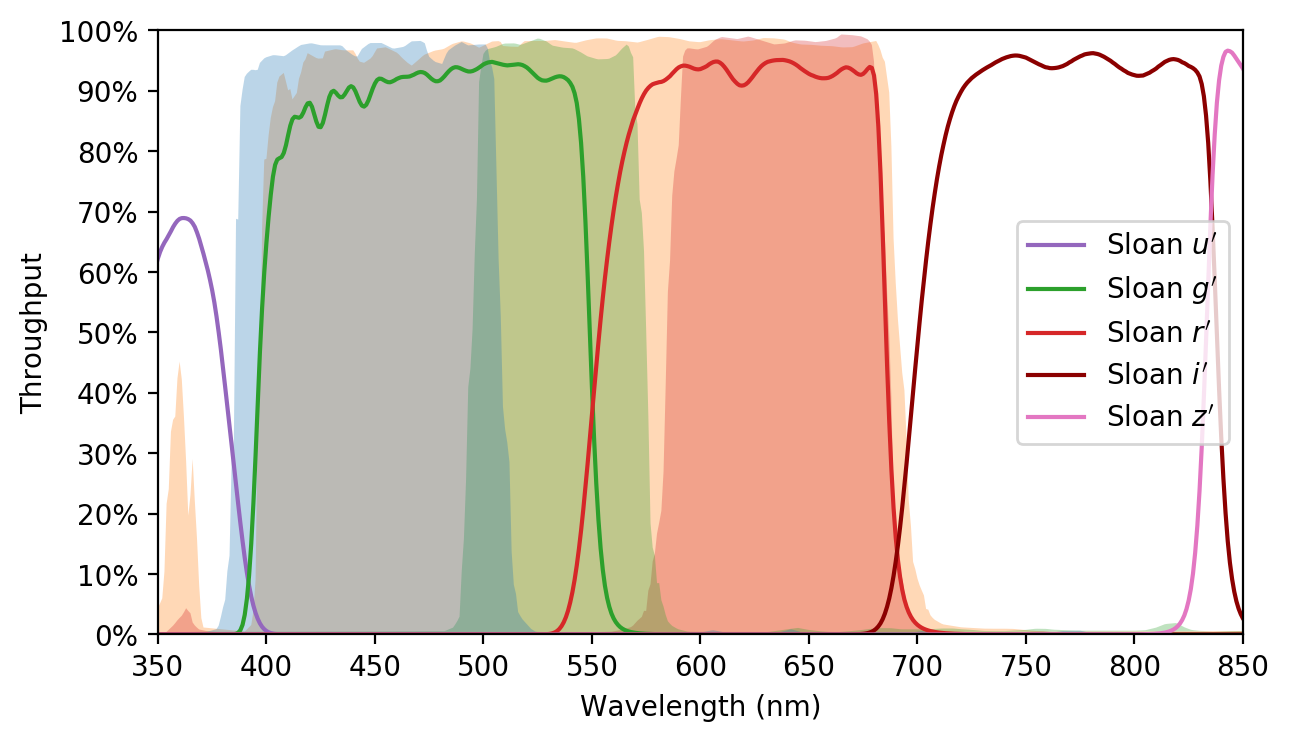
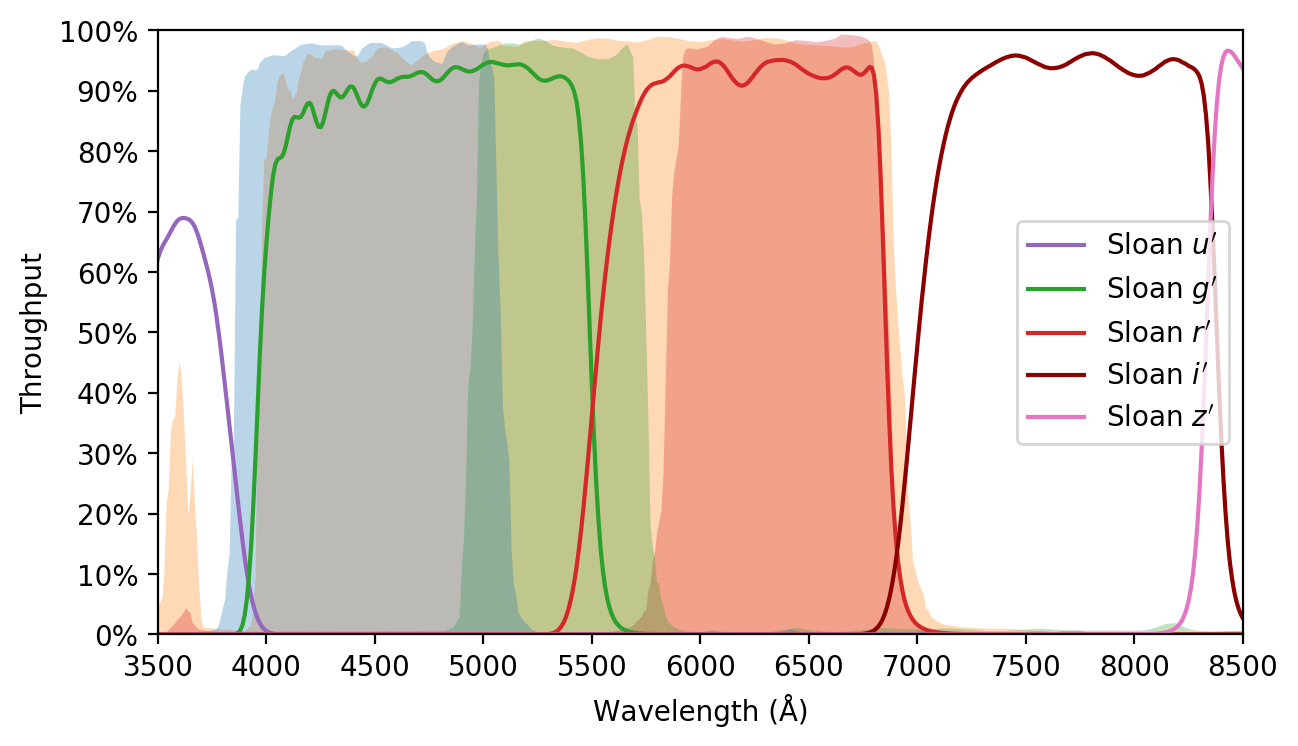
Convert to using Angstrom everywhere

diff --git a/chapters/hardware.tex b/chapters/hardware.tex
@@ -712,7 +712,7 @@ Finally, before reaching the detector light must pass through a glass window in 
 % ---------
 \subsubsection{Combined OTA throughput}
 
-The combined throughput for the whole unfiltered OTA is shown in \aref{fig:trans_ota}. This was constructed by multiplying through the transmission curves for the two mirrors, the corrector and the camera window. In the 400--\SI{700}{\nano\metre} visible region used by GOTO the throughput is typically 60\% or above, although all the elements have a sharp cut-off towards the UV at low wavelengths.
+The combined throughput for the whole unfiltered OTA is shown in \aref{fig:trans_ota}. This was constructed by multiplying through the transmission curves for the two mirrors, the corrector and the camera window. In the 4000--\SI{7000}{\angstrom} visible region used by GOTO the throughput is typically 60\% or above, although all the elements have a sharp cut-off towards the UV at low wavelengths.
 
 \begin{figure}[t]
     \begin{center}
@@ -731,7 +731,7 @@ The combined throughput for the whole unfiltered OTA is shown in \aref{fig:trans
 \label{sec:filters}
 \begin{colsection}
 
-Each GOTO unit telescope has a five-slot CFW9--5 filter wheel from FLI.\@ Each contains a set of \SI{65}{\milli\metre} square filters from Baader Planetarium\footnote{\url{https://www.baader-planetarium.com/}}: three coloured filters (\textit{R}, \textit{G}, \textit{B}), one wide ``luminance'' filter (\textit{L}) covering the whole visible range, and a clear glass filter ({\textit{C}}). Transmission curves for each filter are shown in \aref{fig:filters}. Each filter has a high throughput and steep cut-offs outside of the desired bandpasses. For the coloured filters the cut-offs were chosen so the [O\textsc{iii}] $\lambda 5007$ emission line falls within the overlap of the \textit{B} and \textit{G} filters and the region around \SI{580}{\nano\metre}, which contains emission lines from Mercury and Sodium vapour lamps, is excluded by the gap between the \textit{G} and \textit{R} filters.
+Each GOTO unit telescope has a five-slot CFW9--5 filter wheel from FLI.\@ Each contains a set of \SI{65}{\milli\metre} square filters from Baader Planetarium\footnote{\url{https://www.baader-planetarium.com/}}: three coloured filters (\textit{R}, \textit{G}, \textit{B}), one wide ``luminance'' filter (\textit{L}) covering the whole visible range, and a clear glass filter ({\textit{C}}). Transmission curves for each filter are shown in \aref{fig:filters}. Each filter has a high throughput and steep cut-offs outside of the desired bandpasses. For the coloured filters the cut-offs were chosen so the [O\textsc{iii}] $\lambda 5007$ emission line falls within the overlap of the \textit{B} and \textit{G} filters and the region around \SI{5800}{\angstrom}, which contains emission lines from Mercury and Sodium vapour lamps, is excluded by the gap between the \textit{G} and \textit{R} filters.
 
 The clear filter is never used for scientific observations, so from now on only the \textit{LRGB} filters are considered. Most of GOTO observations are taken using the \textit{L} filter, because it would currently take too long to survey in multiple colours. However the \textit{RBG} filters have been used for targeted observations and manual follow-up images.
 
@@ -750,12 +750,12 @@ The clear filter is never used for scientific observations, so from now on only 
     \begin{center}
         \begin{tabular}{c|cccc} %chktex 44
             Filter            & Central wavelength                          & Bandwidth            \\
-                              & ($\lambda_\text{eff}$, nm) & ($\Delta\lambda$, nm) \\
+             & ($\lambda_\text{eff}$, \SI{}{\angstrom}) & ($\Delta\lambda$, \SI{}{\angstrom}) \\
             \midrule
-            Baader \textit{L} & 535.5 & 294.2 \\
-            Baader \textit{R} & 657.3 &  97.9 \\
-            Baader \textit{G} & 537.3 &  81.3 \\
-            Baader \textit{B} & 450.9 & 118.8 \\
+            Baader \textit{L} & 5355 & 2942 \\
+            Baader \textit{R} & 6573 &  979 \\
+            Baader \textit{G} & 5373 &  813 \\
+            Baader \textit{B} & 4509 & 1188 \\
         \end{tabular}
     \end{center}
     \caption[Baader filter properties]{
@@ -832,7 +832,7 @@ The amount of light lost due to absorption and scattering in the atmosphere will
 
 Once photons pass through the atmosphere and the telescope they are focused onto the CCD, where they interact with the photosensitive layer and produce electric charge carriers which are recorded by the detector \citep{CCDs}. The conversion from photons to electrons is measured by the \gls{qe} of the CCD and is dependent on wavelength: short-wavelength photons will be absorbed before reaching the photosensitive layer, while long wavelength photons will not have enough energy to create free electrons from the silicon. CCDs that are back-side illuminated have improved QE due to each photon passing through fewer layers and therefore having less chance of being absorbed, however these are much more complicated and expensive to build.
 
-The QE curve for the (front-illuminated) KAF-50100 CCDs within the GOTO MicroLine cameras was provided by FLI, and is shown in \aref{fig:qe}. % The QE peaks at 60\% at \SI{550}{\nano\metre} and falls below 30\% outside of the visible region.
+The QE curve for the (front-illuminated) KAF-50100 CCDs within the GOTO MicroLine cameras was provided by FLI, and is shown in \aref{fig:qe}. % The QE peaks at 60\% at \SI{5500}{\angstrom} and falls below 30\% outside of the visible region.
 
 The quantum efficiency of a CCD can also change as a function of temperature, however this is negligible in the visible portion of the spectrum.
 
@@ -853,7 +853,7 @@ The quantum efficiency of a CCD can also change as a function of temperature, ho
 \label{sec:total_throughput}
 \begin{colsection}
 
-The complete GOTO throughput is a combination of all of the above elements. Each source profile was linearly extrapolated to fit the same wavelength range (350--\SI{850}{\nano\metre}) and multiplied together to produce the complete throughput model, shown in \aref{fig:throughput} for each of the four science filters. As the quantum efficiency is included the throughput is equivalent to the conversion between photons entering the atmosphere and electrons detected in the CCD, i.e.\ when observing in the \textit{L} filter for each source photon emitted at \SI{550}{\nano\metre} there is roughly a 40\% chance it will be recorded in the camera output. The mean throughput in each filter can be found by dividing the filled areas in \aref{fig:throughput} by the area of the filter bandpass, these are given in electrons per photon in \aref{tab:throughput}. When combined with the gain for each camera given in \aref{tab:ptc} (in ADU per electron) the full conversion between source photons and output counts can be made.
+The complete GOTO throughput is a combination of all of the above elements. Each source profile was linearly extrapolated to fit the same wavelength range (3500--\SI{8500}{\angstrom}) and multiplied together to produce the complete throughput model, shown in \aref{fig:throughput} for each of the four science filters. As the quantum efficiency is included the throughput is equivalent to the conversion between photons entering the atmosphere and electrons detected in the CCD, i.e.\ when observing in the \textit{L} filter for each source photon emitted at \SI{5500}{\angstrom} there is roughly a 40\% chance it will be recorded in the camera output. The mean throughput in each filter can be found by dividing the filled areas in \aref{fig:throughput} by the area of the filter bandpass, these are given in electrons per photon in \aref{tab:throughput}. When combined with the gain for each camera given in \aref{tab:ptc} (in electrons per ADU) the full conversion between source photons and output counts can be made.
 
 \begin{figure}[t]
     \begin{center}
